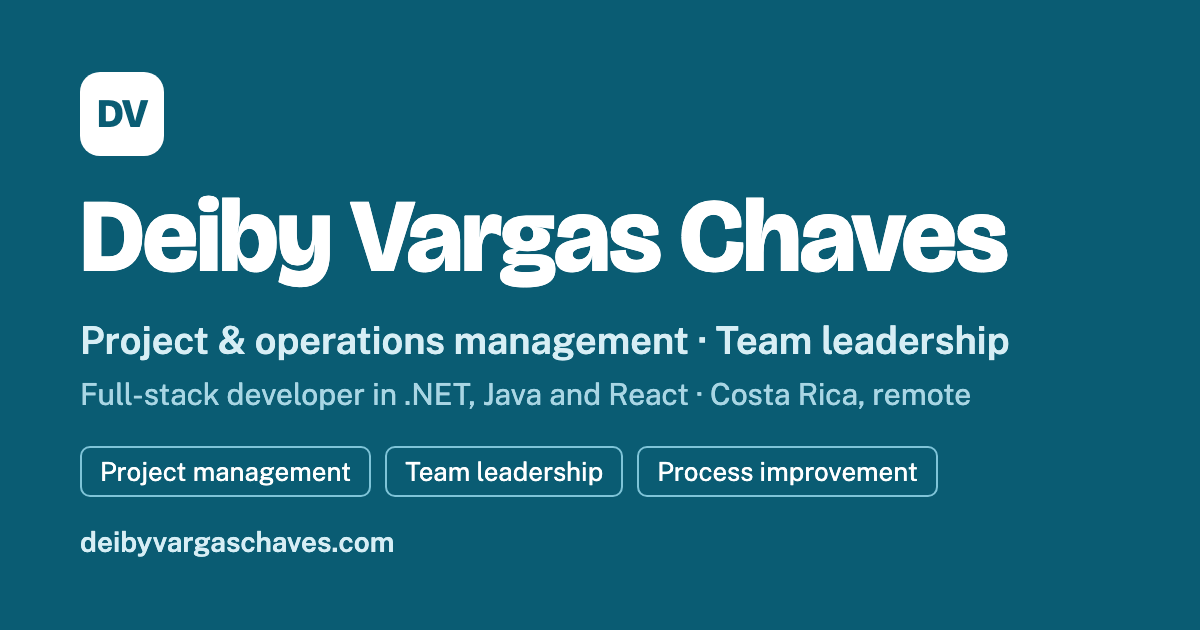
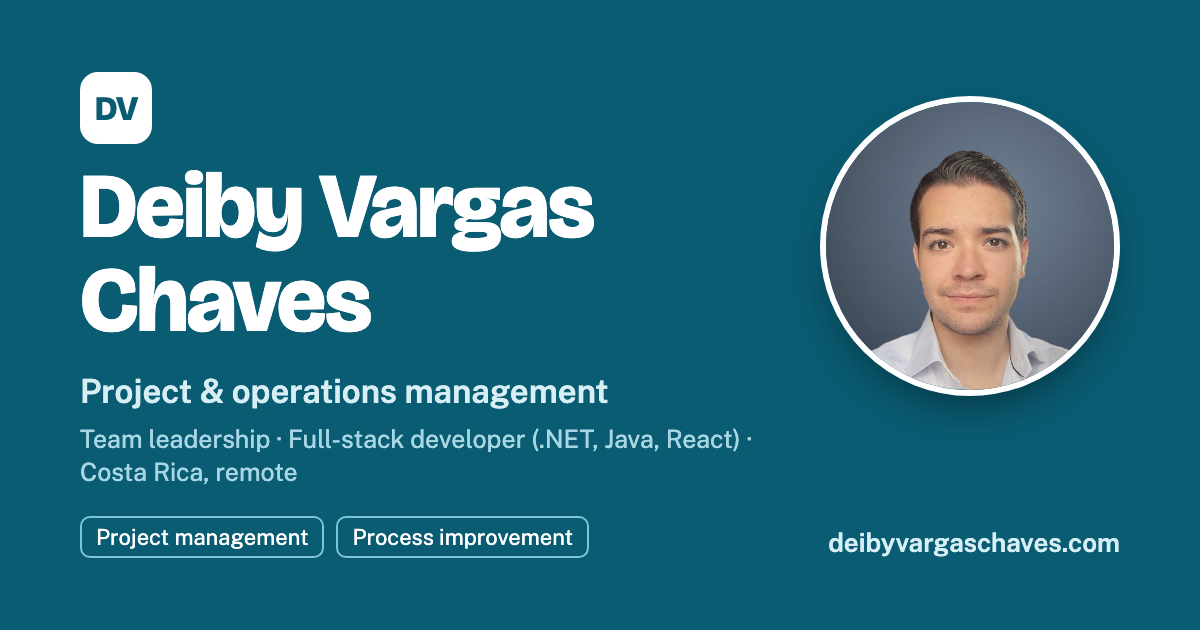
Foto de perfil en el inicio y el perfil; foto en la tarjeta de vista previa

Changed region(s): [[0.0617, 0.1206, 0.9558, 0.9048], [0.6783, 0.8444, 0.9558, 0.9048]]

diff --git a/index.html b/index.html
@@ -26,7 +26,7 @@
   <meta name="twitter:image" content="https://deibyvargaschaves.com/assets/og-en.png">
   <meta name="twitter:title" content="Deiby Vargas Chaves | Project &amp; Operations Management">
   <meta name="twitter:description" content="Advanced Systems Engineering student in Costa Rica: project and operations management, team leadership and full-stack development (.NET, Java, React). Remote.">
-  <script type="application/ld+json">{"@context":"https://schema.org","@type":"Person","name":"Deiby Vargas Chaves","url":"https://deibyvargaschaves.com/","email":"mailto:deibyvargaschaves@gmail.com","jobTitle":"Project & Operations Management / Full-Stack Developer","description":"Advanced Systems Engineering student with experience leading teams, managing projects from requirements gathering to delivery and building full-stack systems in .NET, Java and React.","address":{"@type":"PostalAddress","addressCountry":"CR"},"knowsLanguage":["es","en"],"sameAs":["https://github.com/DeibyV30884","https://www.linkedin.com/in/deiby-vargas-chaves-239839258/"],"knowsAbout":["Project management","Project coordination","Operations management","Team leadership","Process improvement","Requirements gathering","Agile sprint management","YouTrack","Vendor negotiation","Proposals and sales closing",".NET","C#","Java","Spring Boot","React","JavaScript","PHP","REST APIs","MVC","SOLID","JWT","Two-factor authentication (2FA)","Role-based access control","PostgreSQL","SQL Server","MySQL","Oracle SQL","Git","WordPress","WooCommerce","Cloudflare"]}</script>
+  <script type="application/ld+json">{"@context":"https://schema.org","@type":"Person","name":"Deiby Vargas Chaves","url":"https://deibyvargaschaves.com/","image":"https://deibyvargaschaves.com/assets/deiby-vargas-chaves.jpg","email":"mailto:deibyvargaschaves@gmail.com","jobTitle":"Project & Operations Management / Full-Stack Developer","description":"Advanced Systems Engineering student with experience leading teams, managing projects from requirements gathering to delivery and building full-stack systems in .NET, Java and React.","address":{"@type":"PostalAddress","addressCountry":"CR"},"knowsLanguage":["es","en"],"sameAs":["https://github.com/DeibyV30884","https://www.linkedin.com/in/deiby-vargas-chaves-239839258/"],"knowsAbout":["Project management","Project coordination","Operations management","Team leadership","Process improvement","Requirements gathering","Agile sprint management","YouTrack","Vendor negotiation","Proposals and sales closing",".NET","C#","Java","Spring Boot","React","JavaScript","PHP","REST APIs","MVC","SOLID","JWT","Two-factor authentication (2FA)","Role-based access control","PostgreSQL","SQL Server","MySQL","Oracle SQL","Git","WordPress","WooCommerce","Cloudflare"]}</script>
   <link rel="icon" href="/favicon.svg" type="image/svg+xml">
   <link rel="apple-touch-icon" href="/apple-touch-icon.png">
   <link rel="preconnect" href="https://fonts.googleapis.com">
@@ -51,6 +51,9 @@
   </header>
   <main id="contenido" class="wrap">
     <div class="hero">
+      <div class="hero-top">
+        <img class="portrait" src="/assets/deiby-vargas-chaves.jpg" alt="Photo of Deiby Vargas Chaves" width="480" height="480" fetchpriority="high">
+        <div class="hero-text">
       <h1>Deiby Vargas Chaves</h1>
       <p class="role">Project and operations management, team leadership and process improvement.</p>
       <p class="role">Systems Engineering student (≈70% completed) and full-stack developer in .NET, Java and React. Based in Costa Rica, available for remote work.</p>
@@ -59,6 +62,8 @@
         <a class="btn" href="mailto:deibyvargaschaves@gmail.com">Email me</a>
         <a class="btn" href="https://www.linkedin.com/in/deiby-vargas-chaves-239839258/" target="_blank" rel="noopener">LinkedIn</a>
         <a class="btn" href="https://github.com/DeibyV30884" target="_blank" rel="noopener">GitHub</a>
+      </div>
+        </div>
       </div>
       <div class="feature">
         <div class="logo logo-sm"><img src="/assets/logos/coraje-esperanza.jpg" alt="Logo of Centro Diurno Asociación Coraje y Esperanza" width="160" height="160"></div>
@@ -146,8 +151,13 @@
 
     <section id="profile">
       <h2>Professional profile</h2>
-      <p class="prose">Systems Engineering student (≈70% completed) based in Costa Rica and open to remote work, with hands-on experience in <strong>project and operations management</strong>: leading a small team, organizing processes, managing projects from requirements gathering to delivery, and handling clients directly. I also bring commercial experience: winning clients through cold outreach, setting prices, writing proposals and closing deals.</p>
-      <p class="prose">Technical foundation as a <strong>full-stack developer</strong> in <strong>.NET (C#), Java (Spring Boot) and React</strong>, with <strong>PostgreSQL, SQL Server, MySQL and Oracle SQL</strong>; REST APIs, MVC, SOLID, JWT/2FA authentication and role-based access control. I currently own the technical and product decisions of a real multi-module management system and run agile sprints in YouTrack.</p>
+      <div class="about">
+        <img class="portrait portrait-sm" src="/assets/deiby-vargas-chaves.jpg" alt="Photo of Deiby Vargas Chaves" width="480" height="480" loading="lazy">
+        <div>
+          <p class="prose">Systems Engineering student (≈70% completed) based in Costa Rica and open to remote work, with hands-on experience in <strong>project and operations management</strong>: leading a small team, organizing processes, managing projects from requirements gathering to delivery, and handling clients directly. I also bring commercial experience: winning clients through cold outreach, setting prices, writing proposals and closing deals.</p>
+          <p class="prose">Technical foundation as a <strong>full-stack developer</strong> in <strong>.NET (C#), Java (Spring Boot) and React</strong>, with <strong>PostgreSQL, SQL Server, MySQL and Oracle SQL</strong>; REST APIs, MVC, SOLID, JWT/2FA authentication and role-based access control. I currently own the technical and product decisions of a real multi-module management system and run agile sprints in YouTrack.</p>
+        </div>
+      </div>
     </section>
 
     <section id="skills">

diff --git a/es/index.html b/es/index.html
@@ -26,7 +26,7 @@
   <meta name="twitter:image" content="https://deibyvargaschaves.com/assets/og-es.png">
   <meta name="twitter:title" content="Deiby Vargas Chaves | Gestión de Proyectos y Operaciones">
   <meta name="twitter:description" content="Estudiante avanzado de Ingeniería en Sistemas en Costa Rica: gestión de proyectos y operaciones, liderazgo de equipos y desarrollo full-stack (.NET, Java, React). Remoto.">
-  <script type="application/ld+json">{"@context":"https://schema.org","@type":"Person","name":"Deiby Vargas Chaves","url":"https://deibyvargaschaves.com/","email":"mailto:deibyvargaschaves@gmail.com","jobTitle":"Project & Operations Management / Full-Stack Developer","description":"Estudiante avanzado de Ingeniería en Sistemas con experiencia liderando equipos, gestionando proyectos desde el levantamiento de requerimientos hasta la entrega y desarrollando sistemas full-stack en .NET, Java y React.","address":{"@type":"PostalAddress","addressCountry":"CR"},"knowsLanguage":["es","en"],"sameAs":["https://github.com/DeibyV30884","https://www.linkedin.com/in/deiby-vargas-chaves-239839258/"],"knowsAbout":["Project management","Project coordination","Operations management","Team leadership","Process improvement","Requirements gathering","Agile sprint management","YouTrack","Vendor negotiation","Proposals and sales closing",".NET","C#","Java","Spring Boot","React","JavaScript","PHP","REST APIs","MVC","SOLID","JWT","Two-factor authentication (2FA)","Role-based access control","PostgreSQL","SQL Server","MySQL","Oracle SQL","Git","WordPress","WooCommerce","Cloudflare"]}</script>
+  <script type="application/ld+json">{"@context":"https://schema.org","@type":"Person","name":"Deiby Vargas Chaves","url":"https://deibyvargaschaves.com/","image":"https://deibyvargaschaves.com/assets/deiby-vargas-chaves.jpg","email":"mailto:deibyvargaschaves@gmail.com","jobTitle":"Project & Operations Management / Full-Stack Developer","description":"Estudiante avanzado de Ingeniería en Sistemas con experiencia liderando equipos, gestionando proyectos desde el levantamiento de requerimientos hasta la entrega y desarrollando sistemas full-stack en .NET, Java y React.","address":{"@type":"PostalAddress","addressCountry":"CR"},"knowsLanguage":["es","en"],"sameAs":["https://github.com/DeibyV30884","https://www.linkedin.com/in/deiby-vargas-chaves-239839258/"],"knowsAbout":["Project management","Project coordination","Operations management","Team leadership","Process improvement","Requirements gathering","Agile sprint management","YouTrack","Vendor negotiation","Proposals and sales closing",".NET","C#","Java","Spring Boot","React","JavaScript","PHP","REST APIs","MVC","SOLID","JWT","Two-factor authentication (2FA)","Role-based access control","PostgreSQL","SQL Server","MySQL","Oracle SQL","Git","WordPress","WooCommerce","Cloudflare"]}</script>
   <link rel="icon" href="/favicon.svg" type="image/svg+xml">
   <link rel="apple-touch-icon" href="/apple-touch-icon.png">
   <link rel="preconnect" href="https://fonts.googleapis.com">
@@ -51,6 +51,9 @@
   </header>
   <main id="contenido" class="wrap">
     <div class="hero">
+      <div class="hero-top">
+        <img class="portrait" src="/assets/deiby-vargas-chaves.jpg" alt="Foto de Deiby Vargas Chaves" width="480" height="480" fetchpriority="high">
+        <div class="hero-text">
       <h1>Deiby Vargas Chaves</h1>
       <p class="role">Gestión de proyectos y operaciones, liderazgo de equipos y mejora de procesos.</p>
       <p class="role">Estudiante de Ingeniería en Sistemas (≈70 % completado) y desarrollador full-stack en .NET, Java y React. Costa Rica, disponible para trabajo remoto.</p>
@@ -60,6 +63,8 @@
         <a class="btn" href="mailto:deibyvargaschaves@gmail.com">Escribirme</a>
         <a class="btn" href="https://www.linkedin.com/in/deiby-vargas-chaves-239839258/" target="_blank" rel="noopener">LinkedIn</a>
         <a class="btn" href="https://github.com/DeibyV30884" target="_blank" rel="noopener">GitHub</a>
+      </div>
+        </div>
       </div>
       <div class="feature">
         <div class="logo logo-sm"><img src="/assets/logos/coraje-esperanza.jpg" alt="Logo del Centro Diurno Asociación Coraje y Esperanza" width="160" height="160"></div>
@@ -147,8 +152,13 @@
 
     <section id="perfil">
       <h2>Perfil profesional</h2>
-      <p class="prose">Profesional en Ingeniería en Sistemas con experiencia práctica liderando un equipo pequeño, organizando procesos y gestionando proyectos desde el levantamiento de requerimientos hasta la entrega. También tengo experiencia comercial: capté clientes desde cero con llamadas en frío, definí precios, preparé propuestas y cerré ventas. Asumo responsabilidad, le doy orden a la forma de trabajar y me comunico directamente con clientes y personas involucradas.</p>
-      <p class="prose">Busco crecer hacia la <strong>gestión de proyectos y operaciones</strong>, con una base técnica sólida en desarrollo de software (<strong>.NET, Java, React</strong>) y bases de datos (<strong>SQL Server, MySQL, Oracle SQL, PostgreSQL</strong>).</p>
+      <div class="about">
+        <img class="portrait portrait-sm" src="/assets/deiby-vargas-chaves.jpg" alt="Foto de Deiby Vargas Chaves" width="480" height="480" loading="lazy">
+        <div>
+          <p class="prose">Profesional en Ingeniería en Sistemas con experiencia práctica liderando un equipo pequeño, organizando procesos y gestionando proyectos desde el levantamiento de requerimientos hasta la entrega. También tengo experiencia comercial: capté clientes desde cero con llamadas en frío, definí precios, preparé propuestas y cerré ventas. Asumo responsabilidad, le doy orden a la forma de trabajar y me comunico directamente con clientes y personas involucradas.</p>
+          <p class="prose">Busco crecer hacia la <strong>gestión de proyectos y operaciones</strong>, con una base técnica sólida en desarrollo de software (<strong>.NET, Java, React</strong>) y bases de datos (<strong>SQL Server, MySQL, Oracle SQL, PostgreSQL</strong>).</p>
+        </div>
+      </div>
     </section>
 
     <section id="habilidades">

diff --git a/style.css b/style.css
@@ -197,3 +197,17 @@ footer{margin-top:4rem;border-top:1px solid var(--line);padding:1.5rem 0 3rem;co
 .contact{padding-bottom:1rem}
 .contact .cta{margin-top:1rem}
 .job li strong{color:var(--ink)}
+
+/* Foto de perfil */
+.hero-top{display:grid;grid-template-columns:minmax(0,1fr) auto;gap:2rem 3rem;align-items:center}
+.hero-top .portrait{grid-column:2;grid-row:1;width:clamp(10rem,22vw,15rem);aspect-ratio:1}
+.portrait{display:block;border-radius:50%;object-fit:cover;border:3px solid var(--surface);box-shadow:0 0 0 2px var(--primary),0 14px 30px -16px rgba(0,0,0,.45);background:var(--soft)}
+.about{display:flex;gap:1.75rem;align-items:flex-start}
+.portrait-sm{width:7rem;height:7rem;flex:none;margin-top:.3rem}
+@media (max-width:42rem){
+  .hero-top{grid-template-columns:1fr}
+  .hero-top .portrait{grid-column:1;grid-row:1;width:9rem}
+  .about{flex-direction:column}
+}
+.hero-top .portrait{height:auto}
+.hero-top .cta{margin-top:1.4rem}
